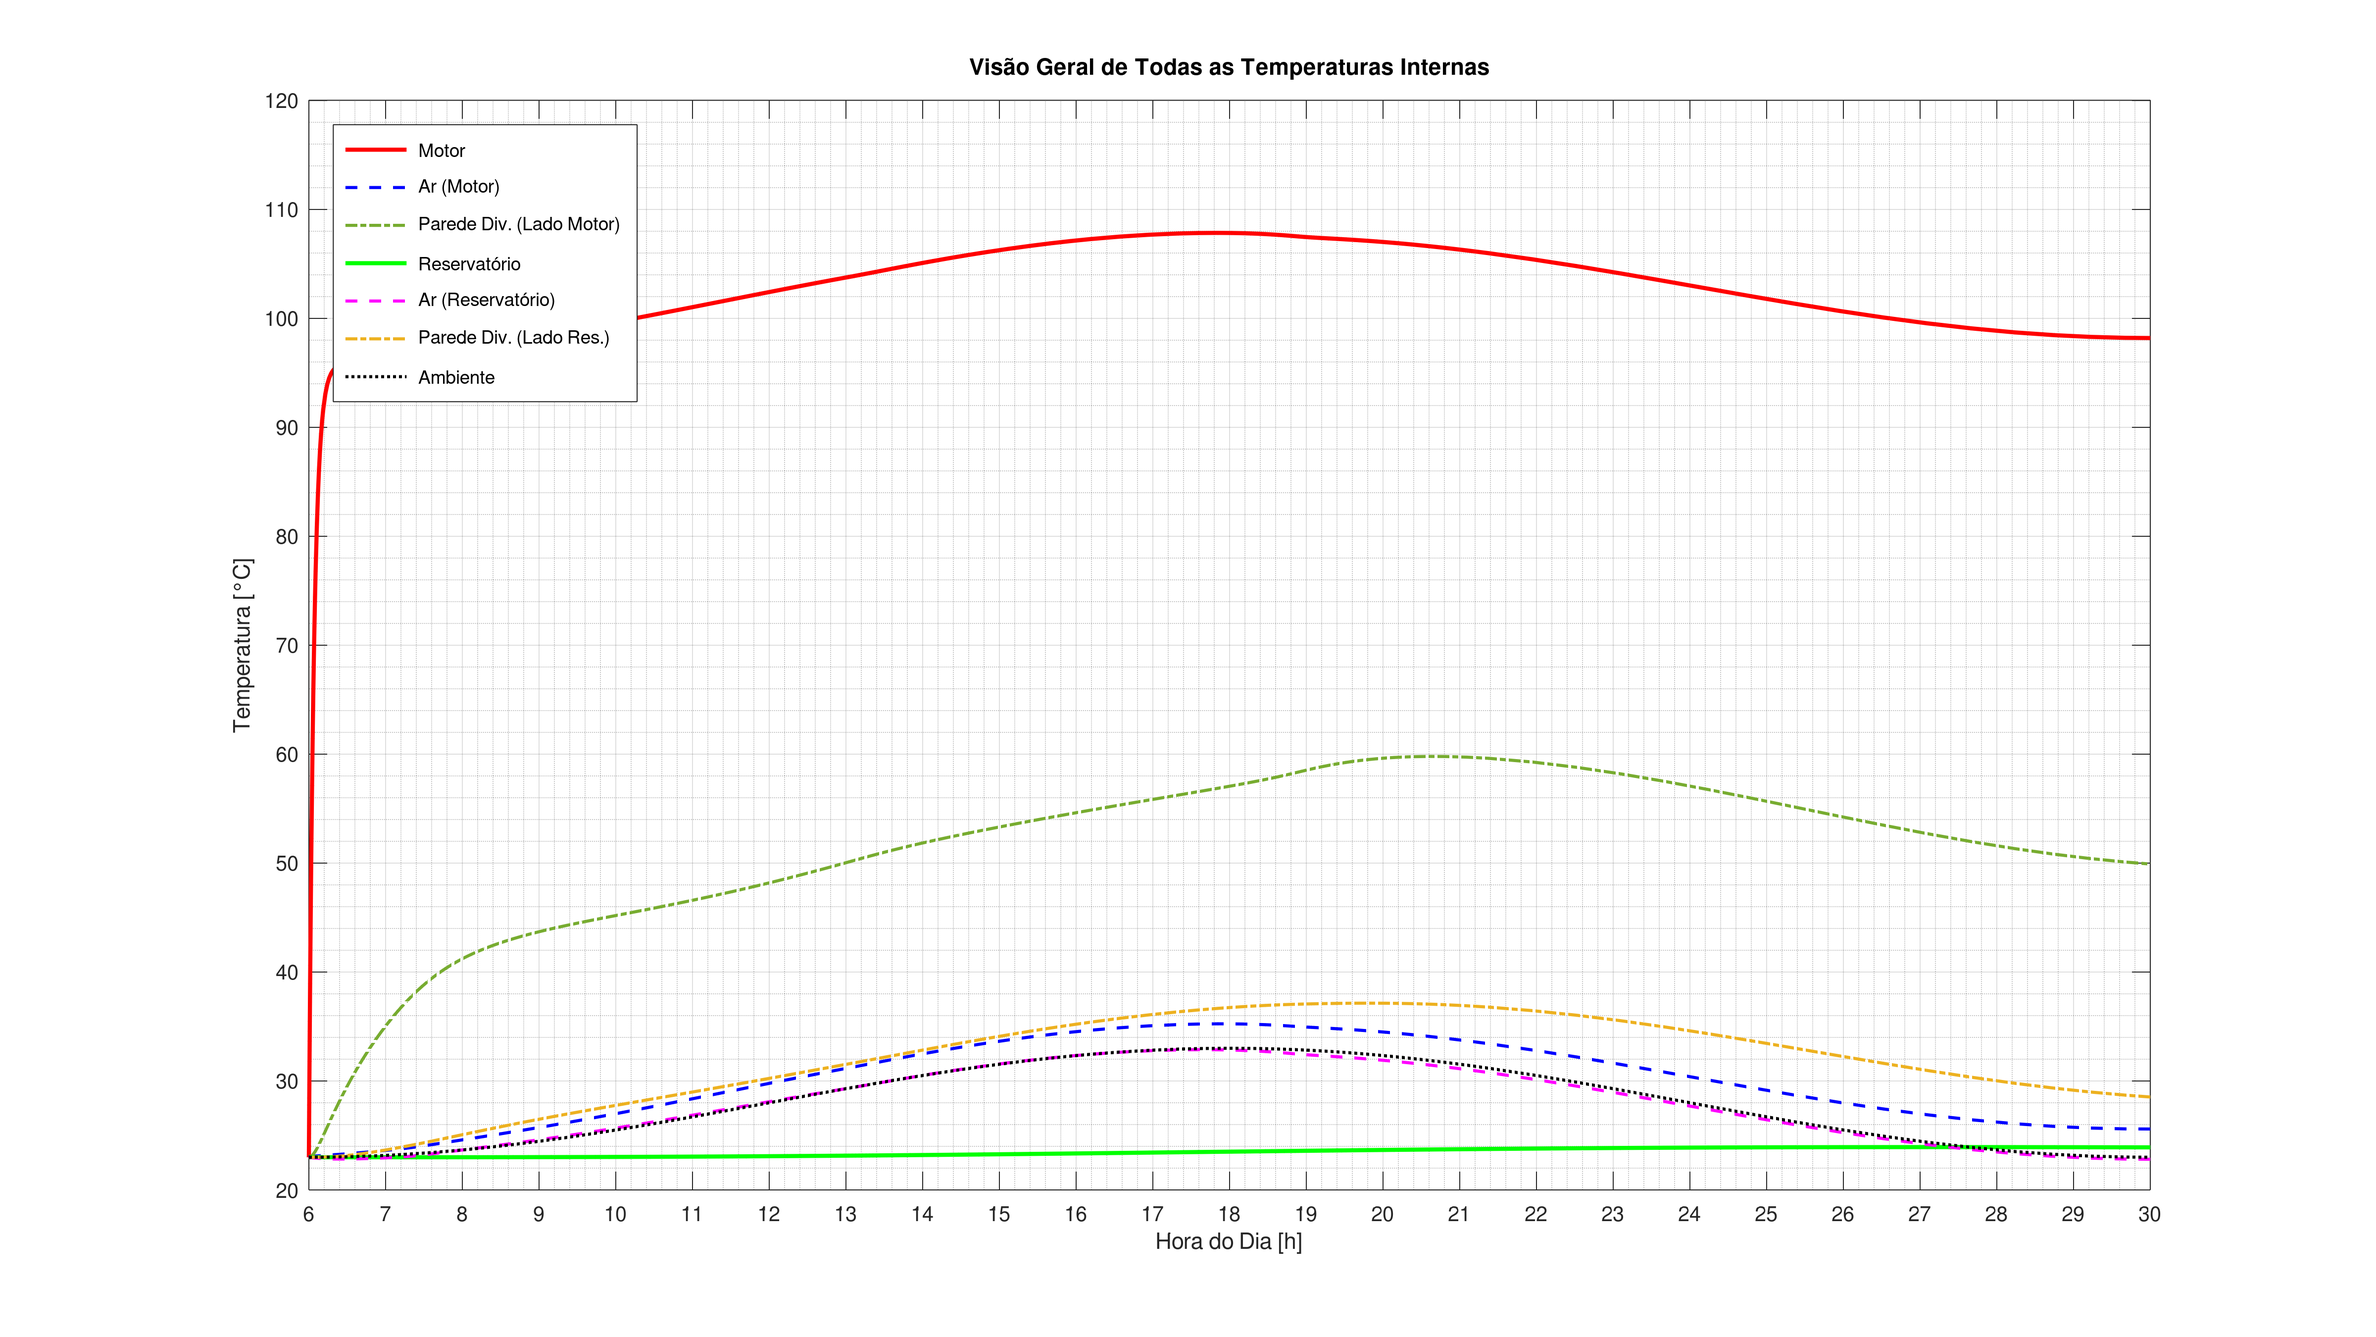
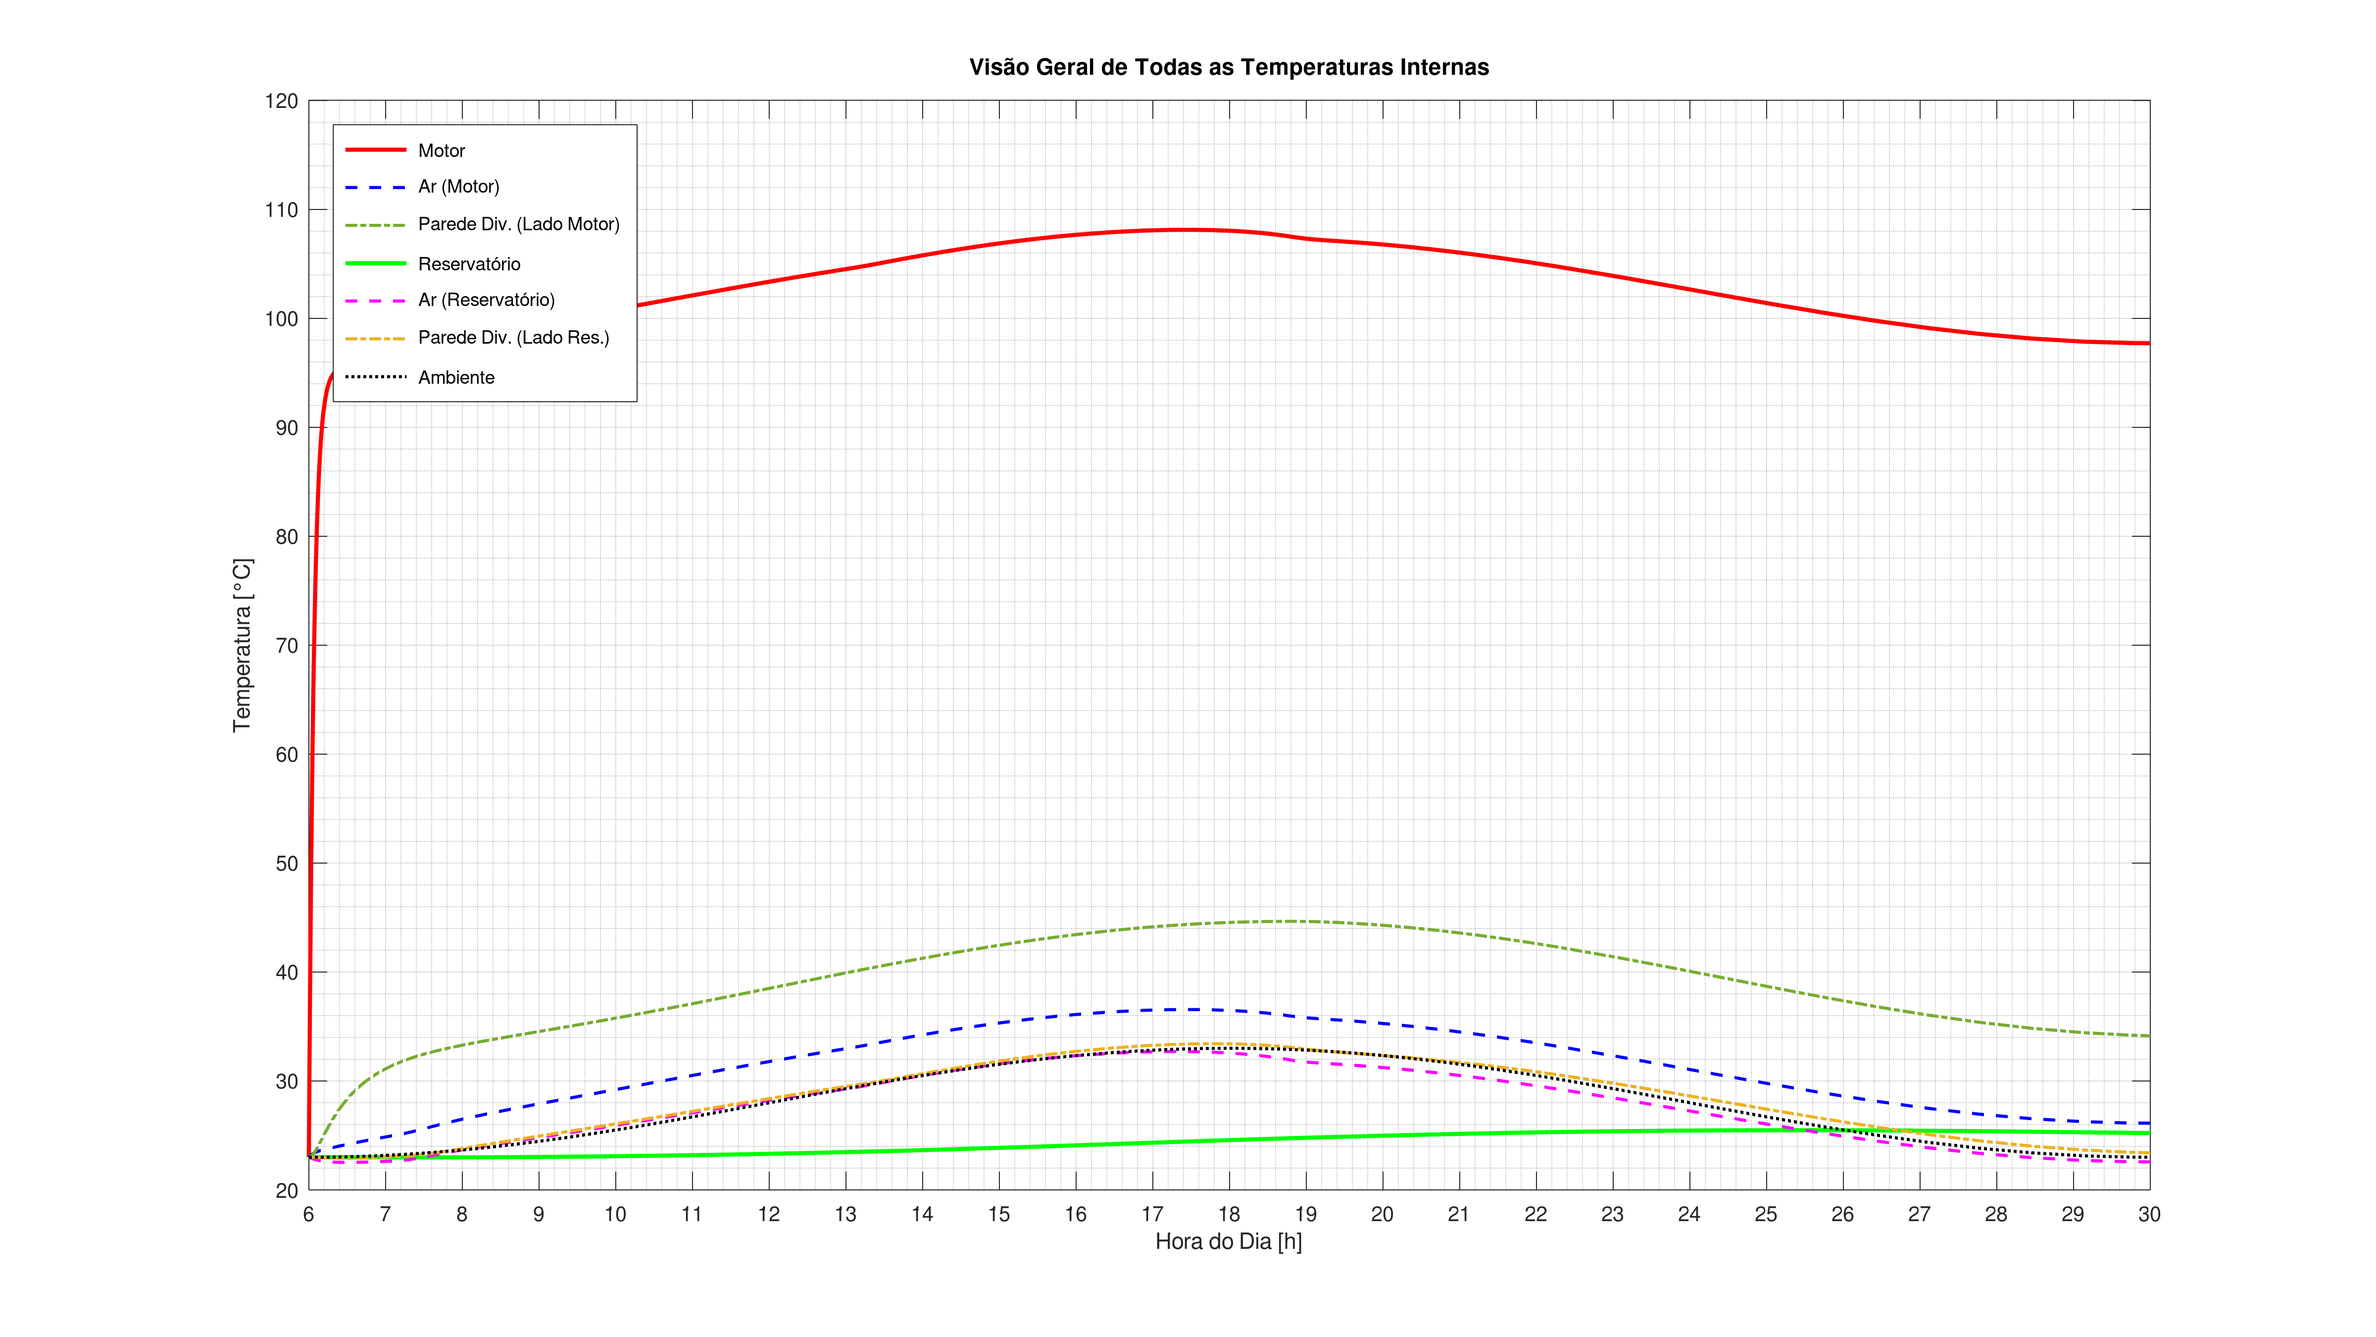
Revert "inserindo m/m_s no calculo de conv"
This reverts commit ce8756d221f0c9d839a1b6d70251659661f13c62.

diff --git a/sistema_termico_total.m b/sistema_termico_total.m
@@ -1,8 +1,4 @@
 function dYdt = sistema_termico_total(t, Y, p, Tinit_K)
-    % --- sistema_termico_total_corrigido.m (v7.2 - Correção de Argumentos da Convecção) ---
-    % CORREÇÃO: Corrigidos os argumentos passados para a função calc_h_convec
-    % para corresponderem à nova assinatura da função.
-
     % --- Desempacotamento do Vetor de Estados Y (19 estados) ---
     Tmotor = Y(1); Tar_motor = Y(2); Treservatorio = Y(3); m_res_atual = Y(4);
     Tsensor_motor = Y(5); Tar_res = Y(6); Tsensor_res = Y(7); Tgerador = Y(8);
@@ -22,28 +18,27 @@ function dYdt = sistema_termico_total(t, Y, p, Tinit_K)
     m_dot_ar_res_atual = p.m_dot_ar_res; if p.withExhaustorFail, m_dot_ar_res_atual = 2e-3; end
 
     % --- CÁLCULO DAS TROCAS DE CALOR ---
-    props_ar_motor = get_air_properties(Tar_motor);
-    A_cross_section = 2.5 * 2.5;
-    v_int = p.m_dot_ar / (props_ar_motor.rho * A_cross_section);
+    % Convecção Interna (Forçada, v=3m/s)
+    h_motor = calc_h_convec(p.D_motor, 3, 0, 'sphere', '');
+    h_gerador = calc_h_convec(p.D_gerador, 3, 0, 'sphere', '');
+    h_bateria = calc_h_convec(p.D_bateria, 3, 0, 'sphere', '');
+    h_int_placa = calc_h_convec(2.5, 3, 0, 'plate', '');
 
-    % Convecção Interna (Forçada, com velocidade e propriedades dinâmicas)
-    h_motor = calc_h_convec(p.D_motor, v_int, Tmotor, Tar_motor, 'sphere', '');
-    h_gerador = calc_h_convec(p.D_gerador, v_int, Tgerador, Tar_motor, 'sphere', '');
-    h_bateria = calc_h_convec(p.D_bateria, v_int, Tbateria, Tar_motor, 'sphere', '');
-    h_int_placa_vert = calc_h_convec(2.5, v_int, Tparede_motor_int, Tar_motor, 'plate', 'vertical');
+    % Convecção Externa (Natural, v=0)
+    L_parede_vert = 2.5;
+    L_teto_mot = p.A_parede_teto_motor / (2 * (2.5 + 2.5));
+    L_teto_res = p.A_parede_teto_res / (2 * (2.5 + 3.4));
 
-    % Convecção Externa (Natural)
-    L_parede_vert = 2.5; L_teto_mot = p.A_parede_teto_motor / 10; L_teto_res = p.A_parede_teto_res / 11.8;
-    h_ext_teto_mot = calc_h_convec(L_teto_mot, 0, Tparede_teto_motor, Tamb, 'plate', 'horizontal_up');
-    h_ext_leste_mot = calc_h_convec(L_parede_vert, 0, Tparede_leste_motor, Tamb, 'plate', 'vertical');
-    h_ext_oeste_mot = calc_h_convec(L_parede_vert, 0, Tparede_oeste_motor, Tamb, 'plate', 'vertical');
-    h_ext_sul_mot = calc_h_convec(L_parede_vert, 0, Tparede_sul_motor, Tamb, 'plate', 'vertical');
-    h_ext_norte_res = calc_h_convec(L_parede_vert, 0, Tparede_norte_res, Tamb, 'plate', 'vertical');
-    h_ext_leste_res = calc_h_convec(L_parede_vert, 0, Tparede_leste_res, Tamb, 'plate', 'vertical');
-    h_ext_oeste_res = calc_h_convec(L_parede_vert, 0, Tparede_oeste_res, Tamb, 'plate', 'vertical');
-    h_ext_teto_res = calc_h_convec(L_teto_res, 0, Tparede_teto_res, Tamb, 'plate', 'horizontal_up');
+    h_ext_teto_mot = calc_h_convec(L_teto_mot, 0, Tparede_teto_motor - Tamb, 'plate', 'horizontal_up');
+    h_ext_leste_mot = calc_h_convec(L_parede_vert, 0, Tparede_leste_motor - Tamb, 'plate', 'vertical');
+    h_ext_oeste_mot = calc_h_convec(L_parede_vert, 0, Tparede_oeste_motor - Tamb, 'plate', 'vertical');
+    h_ext_sul_mot = calc_h_convec(L_parede_vert, 0, Tparede_sul_motor - Tamb, 'plate', 'vertical');
+    h_ext_norte_res = calc_h_convec(L_parede_vert, 0, Tparede_norte_res - Tamb, 'plate', 'vertical');
+    h_ext_leste_res = calc_h_convec(L_parede_vert, 0, Tparede_leste_res - Tamb, 'plate', 'vertical');
+    h_ext_oeste_res = calc_h_convec(L_parede_vert, 0, Tparede_oeste_res - Tamb, 'plate', 'vertical');
+    h_ext_teto_res = calc_h_convec(L_teto_res, 0, Tparede_teto_res - Tamb, 'plate', 'horizontal_up');
 
-    % Balanços de Calor
+    % Balanços de Calor (Resto do código permanece igual)
     Q_radiador=UA_rad*(Tmotor-Tar_motor); Q_conv_motor_ar=h_motor*p.A_motor*(Tmotor-Tar_motor); Q_conv_gerador_ar=h_gerador*p.A_gerador*(Tgerador-Tar_motor); Q_conv_bateria_ar=h_bateria*p.A_bateria*(Tbateria-Tar_motor);
     Q_vent_motor=p.m_dot_ar*p.cp_ar*(Tamb-Tar_motor);
     A_total_int=p.A_parede_leste_motor+p.A_parede_oeste_motor+p.A_parede_sul_motor+p.A_parede_teto_motor+p.A_parede_motor;
@@ -53,21 +48,21 @@ function dYdt = sistema_termico_total(t, Y, p, Tinit_K)
     Q_rad_para_sul_mot=Q_rad_total_motor*(p.A_parede_sul_motor/A_total_int); Q_rad_para_teto_mot=Q_rad_total_motor*(p.A_parede_teto_motor/A_total_int);
     Q_rad_para_divisoria=Q_rad_total_motor*(p.A_parede_motor/A_total_int);
     Q_cond_div = (p.A_div/(p.esp_larocha/p.k_larocha))*(Tparede_motor_int-Tparede_res_ext);
-    Q_conv_res_ar = h_int_placa_vert*p.A_res*(Treservatorio-Tar_res);
+    Q_conv_res_ar = h_int_placa*p.A_res*(Treservatorio-Tar_res);
     Q_saida_combustivel = m_dot_combustivel*p.cp_res*(Treservatorio-Tinit_K);
     Q_vent_res = m_dot_ar_res_atual*p.cp_ar_res*(Tamb-Tar_res);
-    Q_conv_parede_div_res_ar = h_int_placa_vert*p.A_parede_res*(Tparede_res_ext-Tar_res);
-    Q_conv_in_teto = h_int_placa_vert*p.A_parede_teto_motor*(Tar_motor-Tparede_teto_motor); Q_conv_out_teto=h_ext_teto_mot*p.A_parede_teto_motor*(Tparede_teto_motor-Tamb); Q_rad_out_teto=p.sigma*p.epsilon*p.A_parede_teto_motor*(Tparede_teto_motor^4-Tceu^4); Q_solar_teto=p.alpha*p.A_parede_teto_motor*G.teto;
-    Q_conv_in_leste=h_int_placa_vert*p.A_parede_leste_motor*(Tar_motor-Tparede_leste_motor); Q_conv_out_leste=h_ext_leste_mot*p.A_parede_leste_motor*(Tparede_leste_motor-Tamb); Q_rad_out_leste=p.sigma*p.epsilon*p.A_parede_leste_motor*(Tparede_leste_motor^4-Tceu^4); Q_solar_leste=p.alpha*p.A_parede_leste_motor*G.leste;
-    Q_conv_in_oeste=h_int_placa_vert*p.A_parede_oeste_motor*(Tar_motor-Tparede_oeste_motor); Q_conv_out_oeste=h_ext_oeste_mot*p.A_parede_oeste_motor*(Tparede_oeste_motor-Tamb); Q_rad_out_oeste=p.sigma*p.epsilon*p.A_parede_oeste_motor*(Tparede_oeste_motor^4-Tceu^4); Q_solar_oeste=p.alpha*p.A_parede_oeste_motor*G.oeste;
-    Q_conv_in_sul=h_int_placa_vert*p.A_parede_sul_motor*(Tar_motor-Tparede_sul_motor); Q_conv_out_sul=h_ext_sul_mot*p.A_parede_sul_motor*(Tparede_sul_motor-Tamb); Q_rad_out_sul=p.sigma*p.epsilon*p.A_parede_sul_motor*(Tparede_sul_motor^4-Tceu^4); Q_solar_sul=p.alpha*p.A_parede_sul_motor*G.sul;
-    Q_conv_in_norte_res=h_int_placa_vert*p.A_parede_norte_res*(Tar_res-Tparede_norte_res); Q_conv_out_norte_res=h_ext_norte_res*p.A_parede_norte_res*(Tparede_norte_res-Tamb); Q_rad_out_norte_res=p.sigma*p.epsilon*p.A_parede_norte_res*(Tparede_norte_res^4-Tceu^4); Q_solar_norte_res=p.alpha*p.A_parede_norte_res*G.norte;
-    Q_conv_in_leste_res=h_int_placa_vert*p.A_parede_leste_res*(Tar_res-Tparede_leste_res); Q_conv_out_leste_res=h_ext_leste_res*p.A_parede_leste_res*(Tparede_leste_res-Tamb); Q_rad_out_leste_res=p.sigma*p.epsilon*p.A_parede_leste_res*(Tparede_leste_res^4-Tceu^4); Q_solar_leste_res=p.alpha*p.A_parede_leste_res*G.leste;
-    Q_conv_in_oeste_res=h_int_placa_vert*p.A_parede_oeste_res*(Tar_res-Tparede_oeste_res); Q_conv_out_oeste_res=h_ext_oeste_res*p.A_parede_oeste_res*(Tparede_oeste_res-Tamb); Q_rad_out_oeste_res=p.sigma*p.epsilon*p.A_parede_oeste_res*(Tparede_oeste_res^4-Tceu^4); Q_solar_oeste_res=p.alpha*p.A_parede_oeste_res*G.oeste;
-    Q_conv_in_teto_res=h_int_placa_vert*p.A_parede_teto_res*(Tar_res-Tparede_teto_res); Q_conv_out_teto_res=h_ext_teto_res*p.A_parede_teto_res*(Tparede_teto_res-Tamb); Q_rad_out_teto_res=p.sigma*p.epsilon*p.A_parede_teto_res*(Tparede_teto_res^4-Tceu^4); Q_solar_teto_res=p.alpha*p.A_parede_teto_res*G.teto;
-    R_conv_chao_mot=1/(h_int_placa_vert*p.A_base_motor); R_cond_chao_mot=1/(p.S_motor*p.k_solo); Q_chao_motor=(Tar_motor-p.Tinf)/(R_conv_chao_mot+R_cond_chao_mot);
-    R_conv_chao_res=1/(h_int_placa_vert*p.A_base_res); R_cond_chao_res=1/(p.S_res*p.k_solo); Q_chao_res=(Tar_res-p.Tinf)/(R_conv_chao_res+R_cond_chao_res);
-    Q_conv_ar_parede_div_motor=h_int_placa_vert*p.A_parede_motor*(Tar_motor-Tparede_motor_int);
+    Q_conv_parede_div_res_ar = h_int_placa*p.A_parede_res*(Tparede_res_ext-Tar_res);
+    Q_conv_in_teto = h_int_placa*p.A_parede_teto_motor*(Tar_motor-Tparede_teto_motor); Q_conv_out_teto=h_ext_teto_mot*p.A_parede_teto_motor*(Tparede_teto_motor-Tamb); Q_rad_out_teto=p.sigma*p.epsilon*p.A_parede_teto_motor*(Tparede_teto_motor^4-Tceu^4); Q_solar_teto=p.alpha*p.A_parede_teto_motor*G.teto;
+    Q_conv_in_leste=h_int_placa*p.A_parede_leste_motor*(Tar_motor-Tparede_leste_motor); Q_conv_out_leste=h_ext_leste_mot*p.A_parede_leste_motor*(Tparede_leste_motor-Tamb); Q_rad_out_leste=p.sigma*p.epsilon*p.A_parede_leste_motor*(Tparede_leste_motor^4-Tceu^4); Q_solar_leste=p.alpha*p.A_parede_leste_motor*G.leste;
+    Q_conv_in_oeste=h_int_placa*p.A_parede_oeste_motor*(Tar_motor-Tparede_oeste_motor); Q_conv_out_oeste=h_ext_oeste_mot*p.A_parede_oeste_motor*(Tparede_oeste_motor-Tamb); Q_rad_out_oeste=p.sigma*p.epsilon*p.A_parede_oeste_motor*(Tparede_oeste_motor^4-Tceu^4); Q_solar_oeste=p.alpha*p.A_parede_oeste_motor*G.oeste;
+    Q_conv_in_sul=h_int_placa*p.A_parede_sul_motor*(Tar_motor-Tparede_sul_motor); Q_conv_out_sul=h_ext_sul_mot*p.A_parede_sul_motor*(Tparede_sul_motor-Tamb); Q_rad_out_sul=p.sigma*p.epsilon*p.A_parede_sul_motor*(Tparede_sul_motor^4-Tceu^4); Q_solar_sul=p.alpha*p.A_parede_sul_motor*G.sul;
+    Q_conv_in_norte_res=h_int_placa*p.A_parede_norte_res*(Tar_res-Tparede_norte_res); Q_conv_out_norte_res=h_ext_norte_res*p.A_parede_norte_res*(Tparede_norte_res-Tamb); Q_rad_out_norte_res=p.sigma*p.epsilon*p.A_parede_norte_res*(Tparede_norte_res^4-Tceu^4); Q_solar_norte_res=p.alpha*p.A_parede_norte_res*G.norte;
+    Q_conv_in_leste_res=h_int_placa*p.A_parede_leste_res*(Tar_res-Tparede_leste_res); Q_conv_out_leste_res=h_ext_leste_res*p.A_parede_leste_res*(Tparede_leste_res-Tamb); Q_rad_out_leste_res=p.sigma*p.epsilon*p.A_parede_leste_res*(Tparede_leste_res^4-Tceu^4); Q_solar_leste_res=p.alpha*p.A_parede_leste_res*G.leste;
+    Q_conv_in_oeste_res=h_int_placa*p.A_parede_oeste_res*(Tar_res-Tparede_oeste_res); Q_conv_out_oeste_res=h_ext_oeste_res*p.A_parede_oeste_res*(Tparede_oeste_res-Tamb); Q_rad_out_oeste_res=p.sigma*p.epsilon*p.A_parede_oeste_res*(Tparede_oeste_res^4-Tceu^4); Q_solar_oeste_res=p.alpha*p.A_parede_oeste_res*G.oeste;
+    Q_conv_in_teto_res=h_int_placa*p.A_parede_teto_res*(Tar_res-Tparede_teto_res); Q_conv_out_teto_res=h_ext_teto_res*p.A_parede_teto_res*(Tparede_teto_res-Tamb); Q_rad_out_teto_res=p.sigma*p.epsilon*p.A_parede_teto_res*(Tparede_teto_res^4-Tceu^4); Q_solar_teto_res=p.alpha*p.A_parede_teto_res*G.teto;
+    R_conv_chao_mot=1/(h_int_placa*p.A_base_motor); R_cond_chao_mot=1/(p.S_motor*p.k_solo); Q_chao_motor=(Tar_motor-p.Tinf)/(R_conv_chao_mot+R_cond_chao_mot);
+    R_conv_chao_res=1/(h_int_placa*p.A_base_res); R_cond_chao_res=1/(p.S_res*p.k_solo); Q_chao_res=(Tar_res-p.Tinf)/(R_conv_chao_res+R_cond_chao_res);
+    Q_conv_ar_parede_div_motor=h_int_placa*p.A_parede_motor*(Tar_motor-Tparede_motor_int);
 
     % --- EQUAÇÕES DIFERENCIAIS ---
     dm_res_dt = -m_dot_combustivel;

diff --git a/utils/calc_h_convec.m b/utils/calc_h_convec.m
@@ -1,8 +1,4 @@
-function h = calc_h_convec(D, vel, Ts, T_fluid, geometry, orientation)
-    % === calc_h_convec.m (v8 - Lógica Defensiva para Solver de EDO) ===
-    % Versão final com lógica robusta que evita erros fatais dentro do
-    % solver de EDOs, usando um caso padrão para orientações inesperadas.
-
+function h = calc_h_convec(D, vel, DeltaT_surface_air, geometry, orientation)
     % Propriedades do ar (aproximadas para 300K)
     k_ar = 0.0263;   % Condutividade térmica [W/m.K]
     nu_ar = 1.589e-5;% Viscosidade cinemática [m²/s]
@@ -11,54 +7,48 @@ function h = calc_h_convec(D, vel, Ts, T_fluid, geometry, orientation)
     g = 9.81;        % Aceleração gravitacional [m/s²]
 
     if vel > 0.1 % --- CONVECÇÃO FORÇADA ---
-        % Para convecção forçada, usamos a temperatura do fluido (T_fluid)
-        props = get_air_properties(T_fluid);
-        props_s = get_air_properties(Ts);
-        mu_s = props_s.mu;
-
-        Re = vel * D / props.nu;
-
+        Re = vel * D / nu_ar;
         if strcmp(geometry, 'sphere')
-            Nu = 2 + (0.4 * Re^0.5 + 0.06 * Re^(2/3)) * props.pr^0.4 * (props.mu / mu_s)^0.25;
+            Nu = 2 + (0.4 * Re^0.5 + 0.06 * Re^(2/3)) * Pr^0.4;
         elseif strcmp(geometry, 'plate')
-            Nu = 0.664 * Re^0.5 * props.pr^(1/3); % Fluxo laminar
+            Nu = 0.664 * Re^0.5 * Pr^(1/3); % Fluxo laminar
         else
-            Nu = 0; % Geometria desconhecida
+            error('Geometria desconhecida para convecção forçada: %s', geometry);
         end
 
     else % --- CONVECÇÃO NATURAL ---
-        % Para convecção natural, usamos a temperatura de filme
-        T_film = (Ts + T_fluid) / 2;
-        props = get_air_properties(T_film);
-
-        DeltaT = abs(Ts - T_fluid);
-        if DeltaT < 1e-6, h = 0; return; end
-
-        Ra = (g * props.beta * DeltaT * D^3) / (props.nu * props.alpha);
+        DeltaT = max(1e-6, abs(DeltaT_surface_air));
+        Ra = (g * beta * DeltaT * D^3 / nu_ar^2) * Pr;
 
         if strcmp(geometry, 'sphere')
-            Nu = 2 + (0.589 * Ra^(1/4)) / (1 + (0.469 / props.pr)^(9/16))^(4/9);
+            Nu = 2 + (0.589 * Ra^(1/4)) / (1 + (0.469 / Pr)^(9/16))^(4/9);
 
         elseif strcmp(geometry, 'plate')
-            % CORREÇÃO: Lógica com if/elseif/else para ser mais robusta
-            if strcmp(orientation, 'horizontal_up')
-                if Ra > 1e7 && Ra < 1e11, Nu = 0.15 * Ra^(1/3); else, Nu = 0.54 * Ra^(1/4); end
-            elseif strcmp(orientation, 'horizontal_down')
-                Nu = 0.27 * Ra^(1/4);
-            else % Assume 'vertical' como padrão para qualquer outro caso
-                Nu = (0.825 + (0.387 * Ra^(1/6)) / (1 + (0.492 / props.pr)^(9/16))^(8/27))^2;
+            % --- Lógica Explícita para Orientação da Placa ---
+            switch orientation
+                case 'vertical'
+                    % Correlação de Churchill e Chu para placa vertical
+                    Nu = (0.825 + (0.387 * Ra^(1/6)) / (1 + (0.492 / Pr)^(9/16))^(8/27))^2;
+
+                case 'horizontal_up'
+                    if Ra > 1e7 && Ra < 1e11
+                        Nu = 0.15 * Ra^(1/3); % Turbulento
+                    else
+                        Nu = 0.54 * Ra^(1/4); % Laminar
+                    end
+
+                case 'horizontal_down'
+                    Nu = 0.27 * Ra^(1/4);
+
+                otherwise
+                    error('Orientação de placa desconhecida para convecção natural: %s', orientation);
             end
         else
-            Nu = 0; % Geometria desconhecida
+            error('Geometria desconhecida para convecção natural: %s', geometry);
         end
     end
 
     % Calcula o coeficiente convectivo a partir do Nusselt
-    h = props.k * Nu / D;
-
-    % Garante que h não é NaN ou Inf para não parar o solver
-    if isnan(h) || isinf(h)
-        h = 0;
-    end
+    h = Nu * k_ar / D;
 end
 

diff --git a/analise/plotar_dados_inmet.m b/analise/plotar_dados_inmet.m
@@ -15,7 +15,7 @@ function [hours_plot, radiation_plot] = process_inmet_data(filename, target_date
         header_lines = 0;
         while header_lines < 10 % Limite para não entrar em loop infinito
             line = fgetl(fid);
-              if ~isempty(strfind(line, 'Data;'))
+            if ~isempty(strfind(line, 'Data;'))
                 break;
             end
             header_lines = header_lines + 1;
